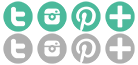
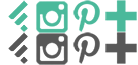
added all footer elements except for pagination

diff --git a/style.css b/style.css
@@ -215,7 +215,7 @@ header {
 }
 
 #container {
-	margin:50px auto;
+	margin:80px auto 40px auto;
 	width:790px;
 }
 	
@@ -232,7 +232,7 @@ header {
 	position: relative;
 	display:block;
 /*		overflow:auto; */
-	margin:40px 0px 20px 20px;
+	margin:40px 0px 40px 20px;
 }
 	
 .nav-top li {
@@ -310,6 +310,7 @@ header {
 		display:block;
 		width:25px;
 		margin:5px 40px 0px 20px;
+	    -webkit-font-smoothing: antialiased;
 		text-transform:uppercase;
 	}
 	
@@ -320,6 +321,7 @@ header {
 		margin:0 auto;
 	}
 	.title h4 {
+		-webkit-font-smoothing: antialiased;
 		margin-top:5px;
 	}
 	
@@ -327,6 +329,7 @@ header {
 		float:right;
 		display:block;
 		margin-top:5px;
+	    -webkit-font-smoothing: antialiased;
 /*		margin-left:255px; */
 	}
 	
@@ -346,19 +349,23 @@ header {
 	}
 	
 	#content-nav {
-		width:35%;
+		width:790px;
+		height:40px;
+		background-color:rgba(226,226,226,0.7);
 		display:block;
 		margin:0 auto;
 	}
 	
 	.older {
 		width:100px;
-		float:left;
+		float:right;
+		padding: 12px 5px 10px 0px;
 	}
 	
 	.newer {
-		width:100px;
-		float:right;
+		width:120px;
+		float:left;
+		padding: 12px 0px 10px 5px;
 	}
 
 	.more-link {
@@ -367,16 +374,17 @@ header {
 		font-size: 11pt;
 		letter-spacing: 3px;
 		color:#585858;
+		-webkit-font-smoothing: antialiased;
 	}
 
 /* --------- Footer --------- */
 	
 footer {
-	position: fixed;
+	position: absolute;
 	bottom: 0px;
 	left:0px;
 	margin-top:50px;
-	display:none;
+	display:block;
 	height:100px;
 	width:100%;
 	background-color: #fafafa;
@@ -384,26 +392,26 @@ footer {
 
 #footer-container {
 	display:block;
-	width:900px;
+	width:790px;
 	margin:0 auto;
 	height:95px;
-	background-image:url('css/img/elements/grey-thin.png');
-	background-repeat:repeat-x;
-	background-position:0px 0px;
 
 }
 
 #search-div {
 	float:left;
 	margin-top:40px;
+	margin-left:392px;
 }
 
 .search-sidebar {
-	height:20px;
+	height:25px;
 	width:170px;
-	background-image:url('img/search-icon.png');
+	background-color: rgba(226,226,226,0.7);
+	background-image:url('img/search.png');
 	background-repeat: no-repeat;
-	background-position: right;
+	background-position: 150px 6px;
+	border:none;
 }
 
 	#social-menu {
@@ -417,19 +425,19 @@ footer {
 #social-menu li {
 		float:left;
 		margin:10px;
-		height:31px;
-		width:31px;
+		height:32px;
+		width:32px;
 	}
 
 .social {
 	background-image:url('img/social-icons.png');
 }
 
-#twitter {
+#feedly {
 	background-position: -3px -33px;
 }
 
-#twitter:hover {
+#feedly:hover {
 	background-position: -3px -1px;
 }
 
@@ -450,11 +458,11 @@ footer {
 }
 
 #bloglovin {
-	background-position: -104px -33px;
+	background-position: -106px -33px;
 }
 
 #bloglovin:hover {
-	background-position: -104px -1px;
+	background-position: -106px -1px;
 }
 
 	#footer-menu li {

diff --git a/footer.php b/footer.php
@@ -1,17 +1,12 @@
 </div><div class="clear"></div>
 <div id="footer-container">
 	<ul id="social-menu">
-		<a href=""><li class="social" id="twitter"></li></a>
+		<a href=""><li class="social" id="feedly"></li></a>
 		<a href=""><li class="social" id="instagram"></li></a>
 		<a href=""><li class="social" id="pinterest"></li></a>
 		<a href=""><li class="social" id="bloglovin"></li></a>
 	</ul>
-	<ul id="footer-menu">
-		<a href="http://mapsandlegends.co/beloved"><li><h3>Blog</h3></li></a>
-		<a href="http://mapsandlegends.co/beloved/about"><li><h3>About</h3></li></a>
-		<a href="http://mapsandlegends.co/beloved/market"><li><h3>Market</h3></li></a>
-		<a href="http://mapsandlegends.co/beloved/connect"><li><h3>Connect</h3></li></a>
-	</ul>
+
 	<div id="search-div">
 		<?php get_search_form(); ?>
 	</div><!--/search-div -->
@@ -20,21 +15,7 @@
 </footer>
 <?php wp_footer(); ?>
 
-<!--<div class="new-footer"></div> --
-<script>
-$(document).scroll(function () {
-    var y = $(this).scrollTop();
-    if (y > 475) {
-        $('footer').slideDown();
-    } else {
-        $('footer').slideUp();
-    }
-
-});
-
-</script> -->
-
-</div><!--/main-->
-</div><!--/main-controller-->
+		</div><!--/main-->
+	</div><!--/main-controller-->
 </body>
 </html>

diff --git a/header.php b/header.php
@@ -38,7 +38,7 @@
 				<li><a href="http://mapsandlegends.co/beloved/about">ABOUT</a></li>
 				<li><a href="http://mapsandlegends.co/beloved/market">MARKET</a></li>
 				<li><a href="http://mapsandlegends.co/beloved/connect">CONNECT</a></li>
-				<li><a href="#">EN</a> / <a href="#">SP</a></li>
+				<li><a href="#">EN</a>&nbsp;/&nbsp;<a href="#">SP</a></li>
 			</ul>
 		</div>
 	</header><div class="clear"></div>

diff --git a/index.php b/index.php
@@ -36,6 +36,11 @@
 	<br><br><br><br>
 		<footer>
 	 <div id="content-nav">
+
+
+<h3 class="newer">&lt;&lt; NEWER</h3>
+<h3 class="older">OLDER >></h3>
+<!-- killing this for now, until we have enough content to constitute -->
 	
 	 <?php next_posts_link('<h3 class="older">&lt;&lt; OLDER</h3>') ?>
 	 
